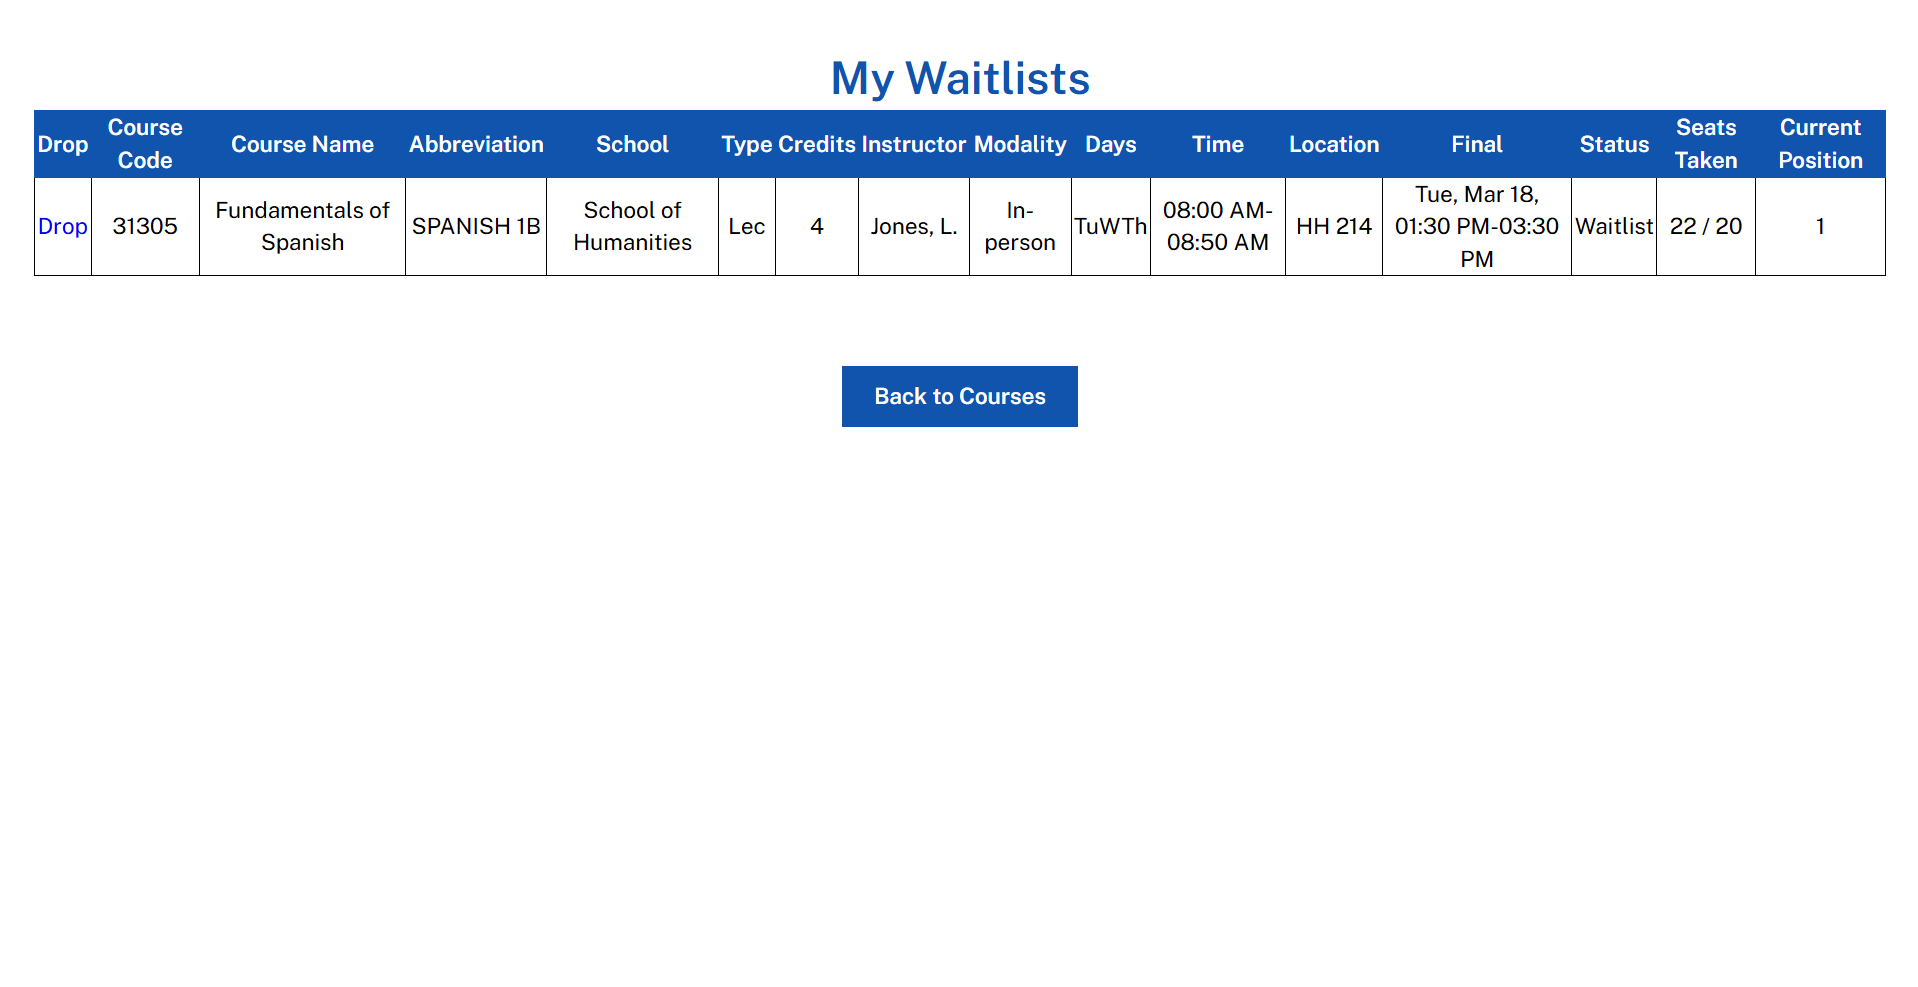
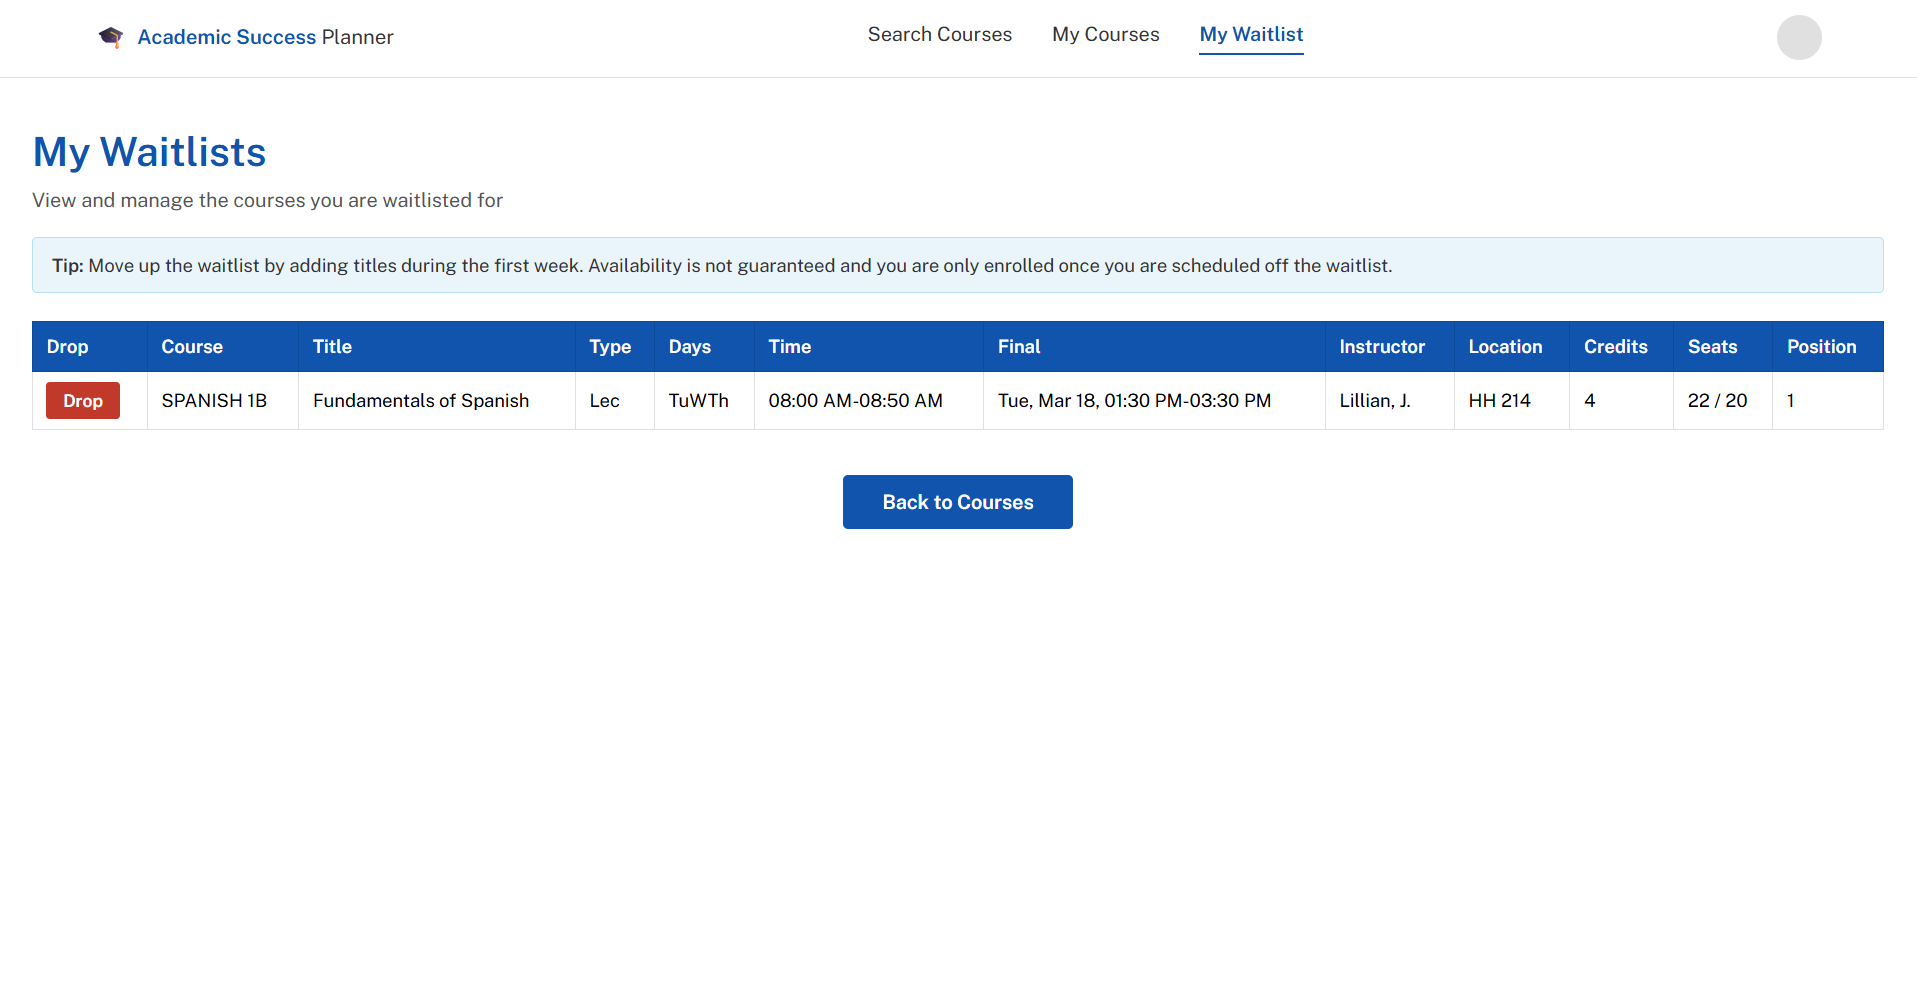
Updated screenshots and README

Changed region(s): [[0.0, 0.0304, 0.9849, 0.5471], [0.0308, 0.0304, 0.2154, 0.0608], [0.9233, 0.0, 0.9541, 0.0608]]

diff --git a/README.md b/README.md
@@ -161,6 +161,5 @@ Phase 4: Explainability & user insights
 
 
 ## 📷 Demo / Screenshots
-<img src="screenshots/course-schedule.png" alt="Course Schedule page" width=500> <img src="screenshots/final-schedule.png" alt="Final Schedule page" width=500>
-<img src="screenshots/quarter-calendar.png" alt="Quarter Calendar page" width=500> <img src="screenshots/waitlist.png" alt="Waitlist page" width=500>
+<img src="screenshots/course-schedule.png" alt="Course Schedule page" width=500> <img src="screenshots/waitlist.png" alt="Waitlist page" width=500>
 <img src="screenshots/filter-courses.png" alt="Filter Courses page" width=500> <img src="screenshots/course-listing.png" alt="Course Listing page" width=500>